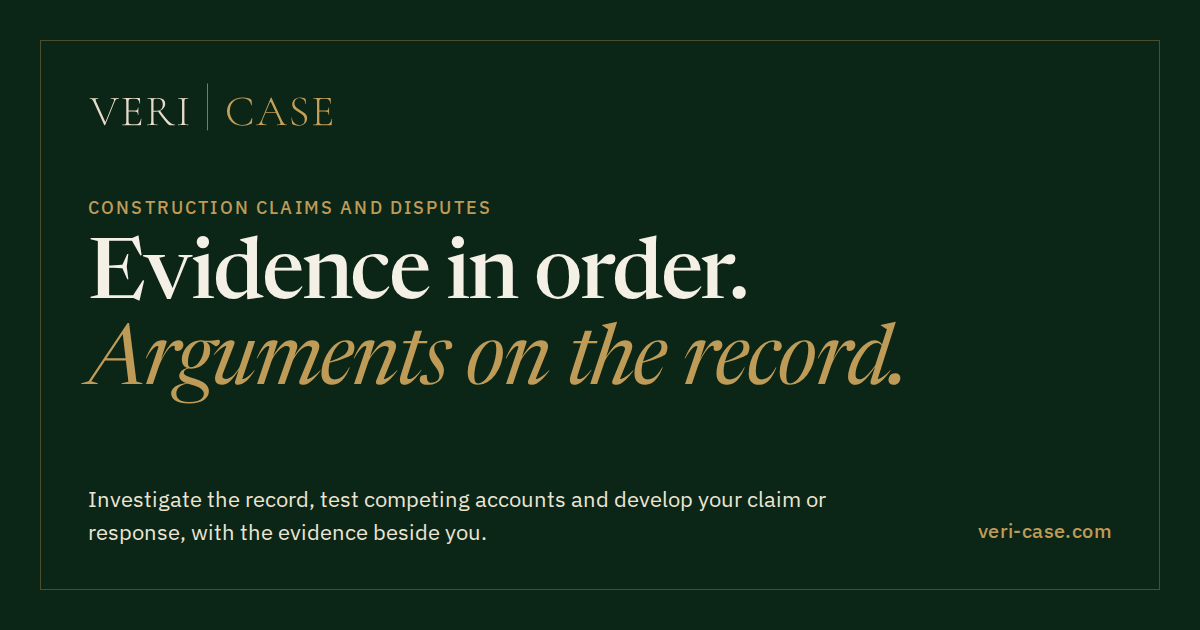
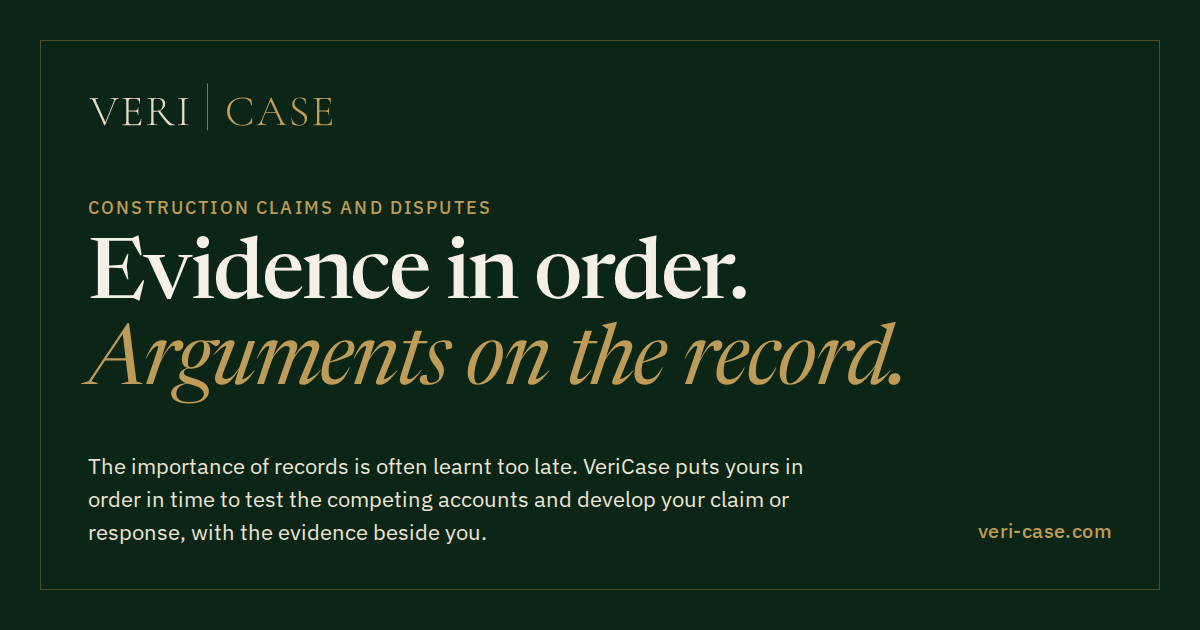
content: the opening sentence takes up the lesson of records
"Investigate the record, test competing accounts and develop your claim
or response, with the evidence beside you." becomes "The importance of
records is often learnt too late. VeriCase puts yours in order in time
to test the competing accounts and develop your claim or response, with
the evidence beside you."

It draws on the VeriCase report's "Records, Records, Records" passage
at the owner's invitation (06 October 2026): Abrahamson's "often too
late" and the motto's "Making Time Your Ally", stated within what the
application does. The sharing card is re-rendered with it, and the
design contract and copy record follow.

Claude-Session: https://claude.ai/code/session_01AfuLFGXRb5fLuRgK17CnWZ

Changed region(s): [[0.0617, 0.7841, 0.7092, 0.8143], [0.0617, 0.7238, 0.6783, 0.754]]

diff --git a/frontend/src/content/home.js b/frontend/src/content/home.js
@@ -66,7 +66,7 @@ export const COVER = {
   h1: "Evidence in order. Arguments on the record.",
   h1Lead: "Evidence in order.",
   h1Emphasis: "Arguments on the record.",
-  subhead: "Investigate the record, test competing accounts and develop your claim or response, with the evidence beside you.",
+  subhead: "The importance of records is often learnt too late. VeriCase puts yours in order in time to test the competing accounts and develop your claim or response, with the evidence beside you.",
   practitionerProof: "Founded by construction claims and dispute resolution practitioners.",
   audience: "For construction claims and commercial teams, working with solicitors, counsel and experts.",
   fastPath: "Explore how it works",

diff --git a/frontend/og/og.html b/frontend/og/og.html
@@ -31,7 +31,7 @@
   <img class="logo" src="../public/logo-reversed.svg" alt="VeriCase" />
   <p class="kicker">Construction claims and disputes</p>
   <h1><span>Evidence in order.</span> <em>Arguments on the record.</em></h1>
-  <p class="lead">Investigate the record, test competing accounts and develop your claim or response, with the evidence beside you.</p>
+  <p class="lead">The importance of records is often learnt too late. VeriCase puts yours in order in time to test the competing accounts and develop your claim or response, with the evidence beside you.</p>
   <p class="url">veri-case.com</p>
 </body>
 </html>

diff --git a/docs/design/current-contract.md b/docs/design/current-contract.md
@@ -10,7 +10,7 @@ Section design (owner, 06 October 2026, “the thread”): each capability secti
 
 Collaboration (owner, 06 October 2026) has its own section, “Keep the discussion with the evidence.”, after the drafting section: the issue of the email relay, the method, four steps, a strip of three figures with notes 1 to 3, the discussion and lanes illustrations, and “Who it is for” as the section’s closing statement, set large on a parchment band under a brass rule (owner, 06 October 2026: it “just gets lost”). The notes are no longer printed on the home page: each marker opens its note in a pop-up that links through to the full note on the Notes and sources page (`/notes`), which is also linked from the footer, and each note there links back to the section citing it. The figures are Microsoft’s average of 117 emails a day; one round of email about one document modelled as six emails and fourteen inbox deliveries; and the professional time on those rounds modelled at about £18,300 for an adjudication of 120 rounds, on the rates the owner verified on 06 October 2026, labelled as a modelled cost and not a measured saving. The figures (gate G13) and the statement that each lane is read only by the people added to it (gate G14) were confirmed by the owner on 06 October 2026; the [capability register](website-capability-register.md) (E12, E13) records their basis and the conflict between the owner’s account of lane visibility and the product source reviewed.
 
-Opening copy: **Evidence in order. Arguments on the record.** (approved by the owner on 05 October 2026, replacing “Complex evidence. Compelling arguments.”, whose second half described an effect on the reader rather than the method). The category is construction claims and disputes. The supporting sentence is: “Investigate the record, test competing accounts and develop your claim or response, with the evidence beside you.” Keep one demonstration action and concise email guidance. Audience detail belongs with collaboration and practitioner proof with the team introduction. On phones the opening uses a compact monochrome composition; desktop retains its existing editorial emphasis. Use green for principal headings, dark bronze for small action text on light grounds and pale text only over a verified dark surface. Keep readable prose, distinct section spacing and primary/standalone controls at least 44 pixels high.
+Opening copy: **Evidence in order. Arguments on the record.** (approved by the owner on 05 October 2026, replacing “Complex evidence. Compelling arguments.”, whose second half described an effect on the reader rather than the method). The category is construction claims and disputes. The supporting sentence is: “The importance of records is often learnt too late. VeriCase puts yours in order in time to test the competing accounts and develop your claim or response, with the evidence beside you.” (proposed 06 October 2026 at the owner’s invitation, drawing on the VeriCase report’s “Records, Records, Records” passage; it replaces “Investigate the record, test competing accounts and develop your claim or response, with the evidence beside you.”) Keep one demonstration action and concise email guidance. Audience detail belongs with collaboration and practitioner proof with the team introduction. On phones the opening uses a compact monochrome composition; desktop retains its existing editorial emphasis. Use green for principal headings, dark bronze for small action text on light grounds and pale text only over a verified dark surface. Keep readable prose, distinct section spacing and primary/standalone controls at least 44 pixels high.
 
 The copy sells evidence investigation and case preparation through concrete tasks and benefits. The timing section begins **The project took years. Your response cannot.** Treat it as a recognisable dispute scenario, not a processing benchmark. Explain professional judgement once in the main source-review section and where needed in the FAQ. Preserve specific scope limitations, illustration labels and confidentiality guidance. The user describes VeriCase as a disruptor; convey the change in working method rather than adding unsupported superiority claims.
 

diff --git a/docs/design/website-copy-2026-10-03.md b/docs/design/website-copy-2026-10-03.md
@@ -24,7 +24,7 @@ Construction claims and disputes
 
 # Evidence in order. Arguments on the record.
 
-Investigate the record, test competing accounts and develop your claim or response, with the evidence beside you.
+The importance of records is often learnt too late. VeriCase puts yours in order in time to test the competing accounts and develop your claim or response, with the evidence beside you.
 
 Primary action: Request a demonstration
 
